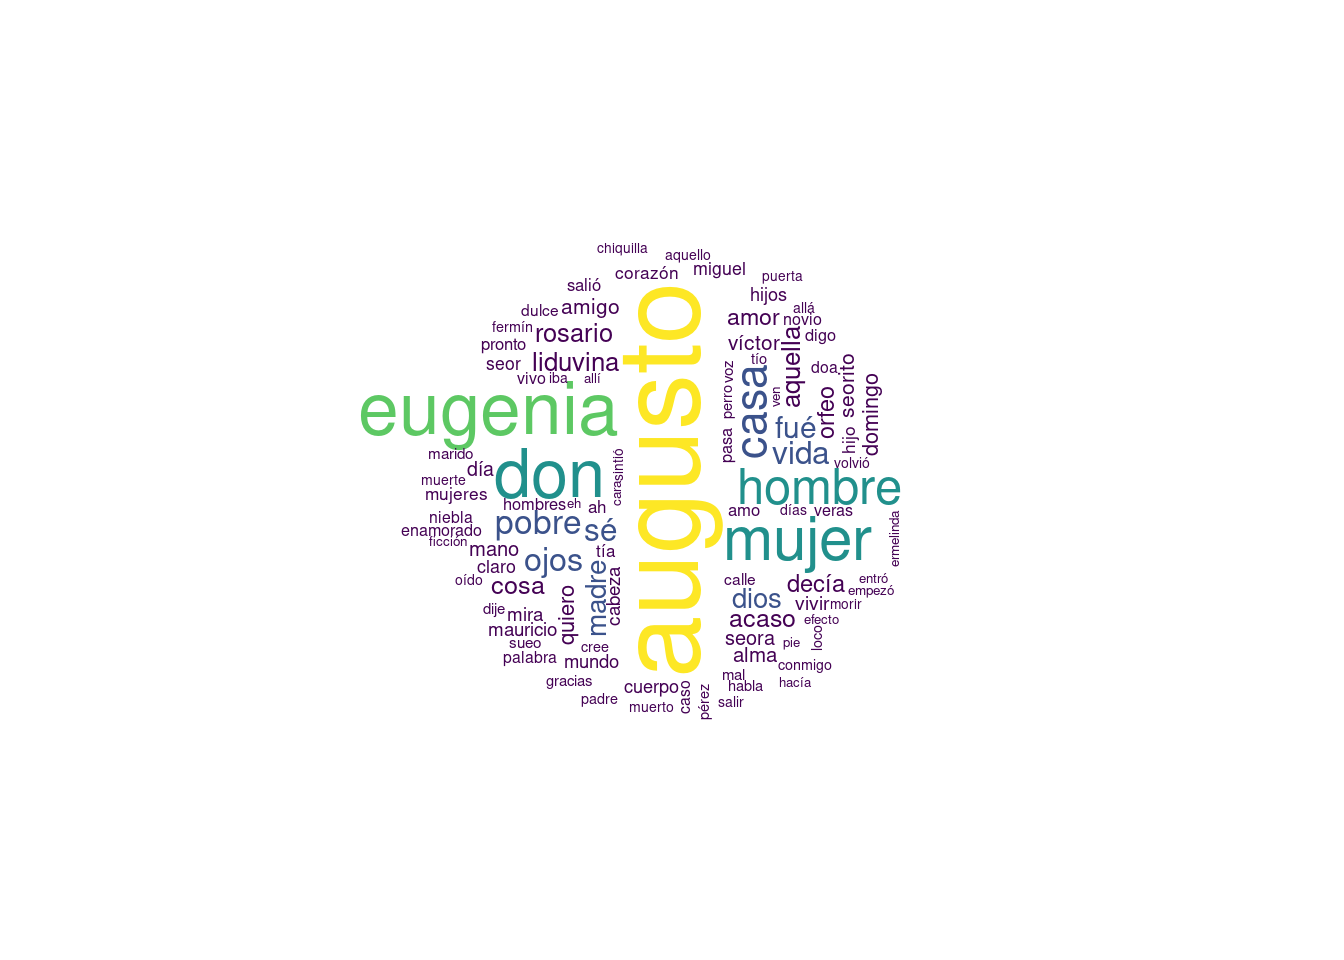
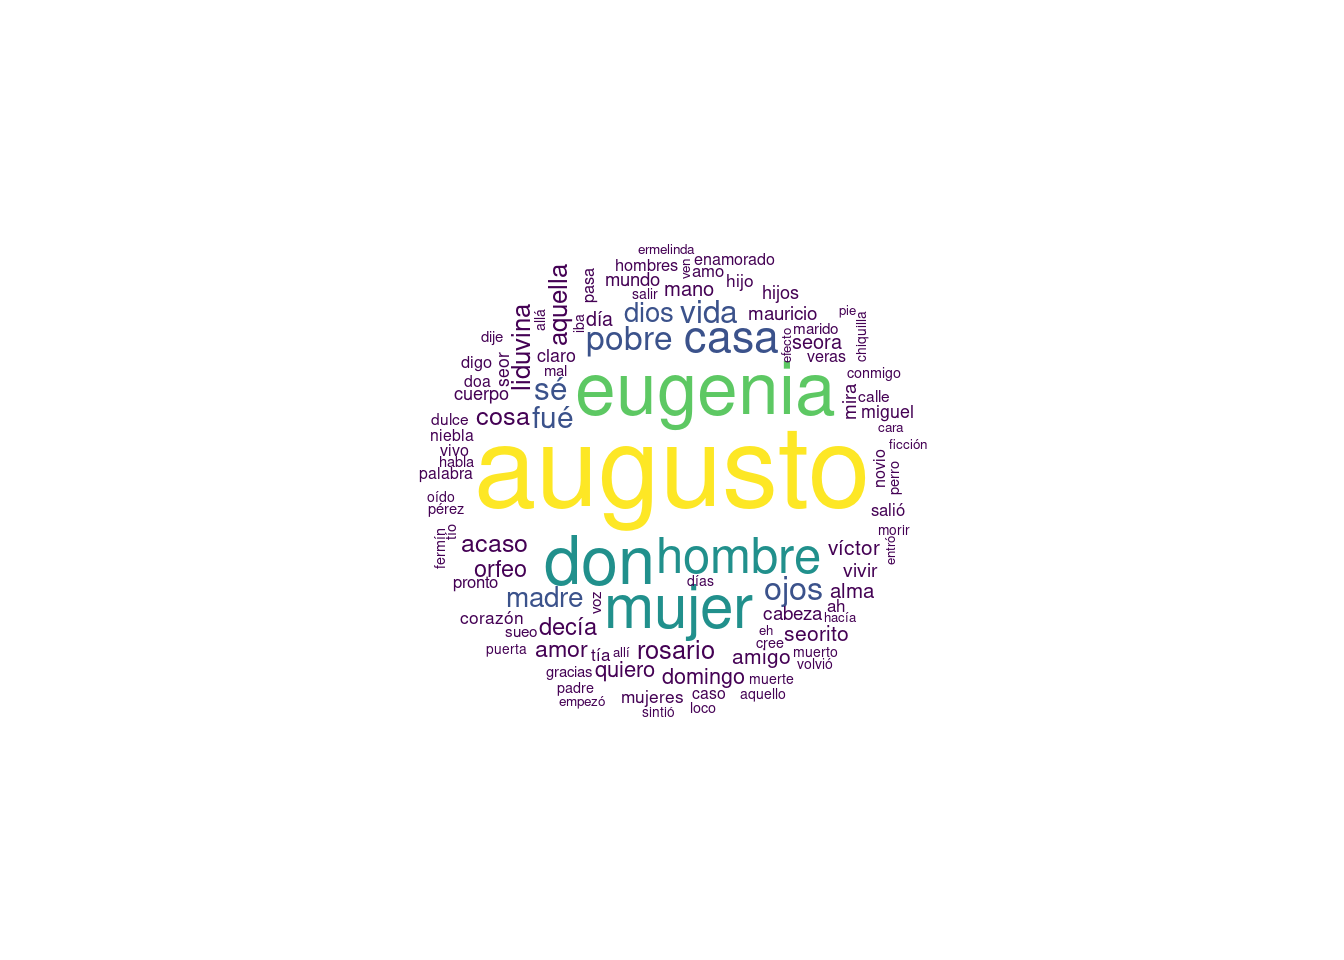
Cambios

Changed region(s): [[0.25, 0.25, 0.6875, 0.75]]

diff --git a/content/posts/2022-01-21-gr-ficos-nube-de-palabras/index.html b/content/posts/2022-01-21-gr-ficos-nube-de-palabras/index.html
@@ -72,8 +72,8 @@ wordcloud(w1[,1], w1[,2], min.freq = 20, random.order = F, max.words = 100, scal
 <pre class="r"><code>wordcloud(w2[,1], w2[,2], min.freq = 20, random.order = F, max.words = 100, scale = c(3.5,0.2),
           colors = viridis(5), rot.per = 0.2)</code></pre>
 <p><img src="{{< blogdown/postref >}}index_files/figure-html/unnamed-chunk-1-2.png" width="672" /></p>
-<div id="comentarios-prueba" class="section level2">
-<h2>Comentarios Prueba</h2>
+<div id="comentarios" class="section level2">
+<h2>Comentarios</h2>
 <p>Tal como se puede apreciar, los resultados son bastante similares. Sin embargo, en el método manual solo incorporé algunas de las situaciones ortográficas que pueden presentarse en el discurso (texto), por lo que deben haber muchas más. Por esto y otros motivos (tiempo de ejecución), es recomendable usar el paquete <strong>stringr</strong>. Cabe mencionar que los parámetros de la función <em>wordcloud</em> son bastante intuitivos, a excepción de los comandos <code>rot.per</code> y <code>scale</code>, el primero rota en 90 grados una proporción determinada del total de palabras en la nube (el valor del argumento va entre 0 y 1), el segundo maneja el tamaño de la nube de palabras y el tamaño (“espaciado”) de las palabras dentro de esta.</p>
 <p>Nota: El gráfico de <em>wordcloud</em> es bastante incómodo de trabajar cuando se trata de manipular márgenes del gráfico, títulos, entre otras cosas. Sin embargo, para todo hay solución.</p>
 </div>
